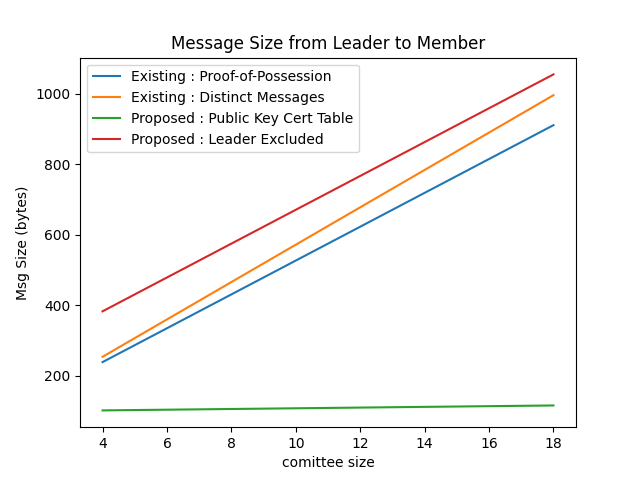
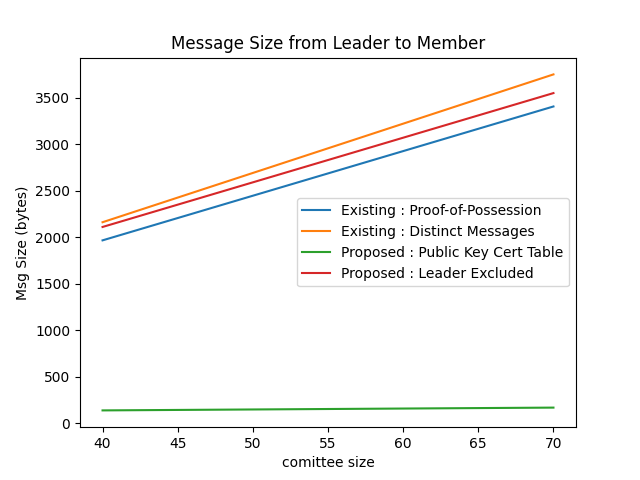
fixed bug

diff --git a/simulation.py b/simulation.py
@@ -44,13 +44,13 @@ def checkValidRound(committee):
 
 # creates a simulation for hardcoded sizes
 def simulationV2():
-    sizes = [4,6,8,10,12,14,16,18]
+    sizes = [40,45,50,55,60,65,70]
     for size in sizes:
         validPKI = False
         validBasic = False
         validPop = False
         validLe = False
-        # re run any failed consensus round. Round can fail for weird reasons
+        # re-run any failed consensus round. Round can fail for weird reasons
         while validPKI is False or validBasic is False or validPop is False or validLe is False :
             if validPKI is False : 
                 pkiTimeTaken, pkiCommittee = runPBFT('pki',size)

diff --git a/node.py b/node.py
@@ -35,7 +35,9 @@ class Node:
         else : self.cert = CAReference.createEmptyCert()
         self.blockchain = BlockchainReference
         self.pop = self.getProof()
-
+        self.pks = []
+        self.msgs = []
+        self.pops = []
     def size(self, metadata):
         size = 0
         for data in metadata : 
